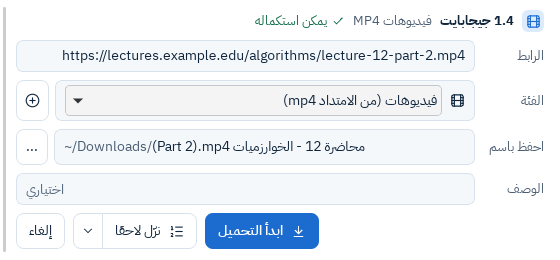
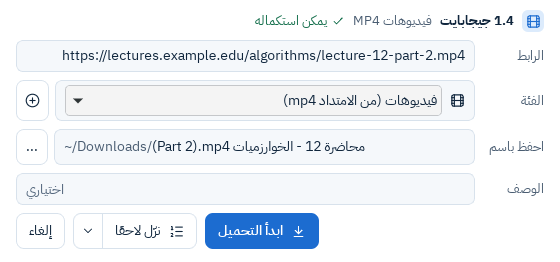
docs(release): Zajil 1.0.0 again, after the second draft was tried (#293)

diff --git a/docs/releases/v1.0.0.md b/docs/releases/v1.0.0.md
@@ -41,8 +41,8 @@
   - «حمّل بزاجِل» و«حمّل الفيديو بزاجِل» من قائمة الزر الأيمن، ومفاتيح مع النقر (مطفأة افتراضيًا).
   - **التقاط التحميلات** حسب أنواع كثيرة كما في IDM (ومنها أجزاء RAR من `r00` إلى `r19`)، **و«خذ أيضًا أي ملف أكبر من 5 ميجابايت»**، مفعّل من البداية، أيًّا كان نوعه، حين يعرف المتصفح حجمه. **انتبه:** هذا الخيار يعمل حتى للأنواع التي أزلتها من القائمة. فإن أزلت `pdf` مثلًا ليبقى في المتصفح، فملف PDF أكبر من 5 ميجابايت يذهب إلى زاجِل، إلا إذا أطفأت الخيار أو رفعت حجمه من إعدادات الإضافة. والمواقع المستثناة تبقى في المتصفح دائمًا.
   - في Chrome وEdge لا يظهر التحميل في شريط تحميلات المتصفح وهو يذهب إلى زاجِل.
-  - زر «نزّل الفيديو» **أعلى يمين الفيديو** كما في IDM، ومعه علامة زاجِل، **وبلغة زاجِل** لا لغة المتصفح (ولغة المتصفح فقط إن لم يصل المتصفح إلى زاجِل)، ولا يظهر قبل أن تصل نصوصه. وبعد الضغط يبقى ويقول إنه يعمل حتى يرد زاجِل، ويقول السبب إن لم يأخذ زاجِل الفيديو. وفي يوتيوب يظهر في صفحات الفيديو وShorts والبث والمشغّل المضمَّن فقط.
-  - وإذن «اسمح لزاجِل بالمواقع» اختياري يُطلب مرة واحدة، لكوكيز الموقع (في الذاكرة فقط) وزر الفيديو. وفي لينكس تعمل مع الـ `.deb` والـ AppImage.
+  - زر «نزّل الفيديو» **أعلى يمين الفيديو** كما في IDM، ومعه علامة زاجِل، **وبلغة زاجِل** لا لغة المتصفح (ولغة المتصفح فقط إن لم يصل المتصفح إلى زاجِل)، ولا يظهر قبل أن تصل نصوصه. وبعد الضغط يبقى ويقول إنه يعمل حتى يرد زاجِل، ويقول السبب إن لم يأخذ زاجِل الفيديو. وفي يوتيوب يظهر في صفحات الفيديو وShorts والبث والمشغّل المضمَّن فقط. وفي صفحة قائمة تشغيل زر «نزّل قائمة التشغيل بزاجِل» تحت عنوانها، وعلى فيديو من قائمة يعرض الزر «هذا الفيديو» و«قائمة التشغيل كلها».
+  - وإذن «اسمح لزاجِل بالمواقع» اختياري يُطلب مرة واحدة، لكوكيز الموقع (في الذاكرة فقط، إلا ملفًا مؤقتًا في مجلد بيانات زاجِل يقرؤه yt-dlp، ويُحذف حين ينتهي) وزر الفيديو. وفي لينكس تعمل مع الـ `.deb` والـ AppImage.
 - **الأمان:** البرامج والمثبّتات والسكربتات وملفات Office ذات الماكرو القادمة من المتصفح تنتظر موافقتك قبل تحميلها، وكل ملف يُحمَّل يحمل علامة النظام «من الإنترنت».
 - **وغير ذلك:** مراقبة الحافظة (مطفأة افتراضيًا)، وأيقونة في شريط النظام تقول ما يعمل وسرعته، وإشعارات وأصوات، والتشغيل مع بدء النظام.
 - **سطر الأوامر** (`zajil`، بالإنجليزية): `get` و`resume` و`queue` و`category` و`video` و`grab` و`batch`. ويُثبَّت بجانب البرنامج.
@@ -129,7 +129,7 @@
 
 الـ CI يبني كل مثبّت ويجرّبه على نظامه: التثبيت، ووجود `zajil-host` و`zajil` و`zajil-jsbox` بجانب البرنامج، وتشغيل `zajil --version`، وتشغيل `zajil-jsbox` المثبّت عبر QuickJS-NG المثبّت (به يحل yt-dlp تحديات يوتيوب)، والإزالة. ويثبّت ملف zip الخاص بـ yt-dlp بكود زاجِل نفسه ويشغّله على ماك وويندوز. ويشغّل البرنامج نفسه ونوافذه ويصوّرها على الأنظمة الثلاثة، ويختبر المحرك والإضافة والفيديو على سيرفرات محلية. أما يدويًا، على أجهزة حقيقية:
 
-- **جُرِّبت المسودة الأولى من 1.0 يدويًا على ماك وويندوز،** وظهرت فيها مشكلات في الفيديو والإضافة والنوافذ، وأُصلحت (انظر «ما تغيّر بعد تجربة المسودة الأولى»). **أما هذه الإصلاحات فلم تُجرَّب يدويًا بعد،** ولا لينكس. وسيناريو التجربة على ماك ([MANUAL-TEST-0.2-MAC](https://github.com/motalim-ai/zajil-download-manager/blob/v1.0.0/docs/MANUAL-TEST-0.2-MAC.md)) لم تُسجَّل نتيجته بعد.
+- **جُرِّبت مسودتان من 1.0 يدويًا،** الأولى على ماك وويندوز، وظهرت فيهما مشكلات في الفيديو والإضافة والنوافذ، وأُصلحت (انظر «ما تغيّر بعد تجربة المسودات»). **أما هذه الإصلاحات فلم تُجرَّب يدويًا بعد،** ومنها زر قائمة التشغيل والقراءة المسبقة للفيديو، ولا لينكس. وسيناريو التجربة على ماك ([MANUAL-TEST-0.2-MAC](https://github.com/motalim-ai/zajil-download-manager/blob/v1.0.0/docs/MANUAL-TEST-0.2-MAC.md)) لم تُسجَّل نتيجته بعد.
 - **الإضافة مع المتصفحات الحقيقية** (Chrome وEdge وFirefox): بعض الاختبارات اليدوية ما زالت قائمة ([#85](https://github.com/motalim-ai/zajil-download-manager/issues/85)).
 - **إطفاء الجهاز وإسباته بعد طابور:** مختبر بمحاكاة فقط ([#34](https://github.com/motalim-ai/zajil-download-manager/issues/34)).
 - **الفيديو من الإنترنت:** اختبارات الـ CI تشغّل yt-dlp وffmpeg الحقيقيين على ملفات تصنعها هي على سيرفر محلي (MP4 وHLS وDASH وصوت فقط وDRM)، ولا تصل إلى الإنترنت. فتنزيل الأدوات من GitHub، وتحميل فيديو من موقع حقيقي (ومنه يوتيوب)، لم يُجرَّبا يدويًا بعد.
@@ -137,9 +137,9 @@
 - **أقراص وشبكات حقيقية:** فلاشات FAT32 وexFAT (الـ CI يختبر صور أقراص)، ومجلدات الشبكة (SMB)، وانقطاع الكهرباء أثناء التحميل.
 - القائمة كاملة وخطواتها في [MANUAL-TESTS](https://github.com/motalim-ai/zajil-download-manager/blob/v1.0.0/docs/MANUAL-TESTS.md). وإن جرّبت شيئًا منها، أخبرنا بالنتيجة في [Issues](https://github.com/motalim-ai/zajil-download-manager/issues).
 
-## ما تغيّر بعد تجربة المسودة الأولى
+## ما تغيّر بعد تجربة المسودات
 
-بُنيت لـ 1.0 مسودة أولى لم تُنشر، وجُرِّبت يدويًا على ماك وويندوز. وهذا ما أُصلح بعدها، قبل هذا الإصدار:
+بُنيت لـ 1.0 مسودتان لم تُنشرا، وجُرِّبتا يدويًا (الأولى على ماك وويندوز). وهذا ما أُصلح بعدهما، قبل هذا الإصدار:
 
 - **الفيديو:**
   - في ويندوز كانت نافذة طرفية تظهر مع كل فيديو ([#251](https://github.com/motalim-ai/zajil-download-manager/pull/251)).
@@ -148,14 +148,18 @@
   - `zajil-jsbox` لم يكن داخل المثبّتات، فكان يوتيوب يفشل لمن سجّل دخوله إلى يوتيوب وليس عنده Deno أو Node ([#252](https://github.com/motalim-ai/zajil-download-manager/pull/252)).
   - صفحة لا تعطي أي جودة مع كوكيزها يُسأل عنها بلاها ([#254](https://github.com/motalim-ai/zajil-download-manager/pull/254))، ورابط الفيديو نفسه يُطلب حين لا يقرأ yt-dlp صفحته، وفيديو النافذة الخاصة لا يُكتب أبدًا ([#268](https://github.com/motalim-ai/zajil-download-manager/pull/268)).
   - رسائل الخطأ بلغتك ([#260](https://github.com/motalim-ai/zajil-download-manager/pull/260))، وللملف امتداد واحد ([#262](https://github.com/motalim-ai/zajil-download-manager/pull/262))، ويُحسب تقدم الدمج كاملًا والافتراضي MP4 ([#267](https://github.com/motalim-ai/zajil-download-manager/pull/267)).
+  - تظهر جودات الفيديو أسرع: حين يظهر زر الفيديو فوق فيديو، يقرأ زاجِل صفحته مقدمًا في الخلفية ([#289](https://github.com/motalim-ai/zajil-download-manager/pull/289)، [#291](https://github.com/motalim-ai/zajil-download-manager/pull/291))، دون أن يشغّل المتصفحُ زاجِل لذلك، ومرة لكل صفحة كل 10 دقائق، ويحفظ ما وجده في الذاكرة فقط. فتصل صفحة الفيديو ورابطه وكوكيز الصفحة إلى زاجِل حين يظهر الزر لا حين تضغطه فقط (بإذن «اسمح لزاجِل بالمواقع»)، ولا شيء من نافذة خاصة. ونصوص الخصوصية في الإضافة تقول ذلك ([#294](https://github.com/motalim-ai/zajil-download-manager/pull/294)).
   - فيديوهات قائمة التشغيل المختارة تدخل القائمة فورًا وتُحمَّل بالدور ([#266](https://github.com/motalim-ai/zajil-download-manager/pull/266))، و«جودة الفيديو» تبقى في المقدمة ويمكن إلغاؤها ([#277](https://github.com/motalim-ai/zajil-download-manager/pull/277)).
 - **الإضافة:**
   - التحميل لا يظهر في شريط Chrome وEdge ([#253](https://github.com/motalim-ai/zajil-download-manager/pull/253)).
   - أنواع أكثر، وخيار «أكبر من 5 ميجابايت» ([#256](https://github.com/motalim-ai/zajil-download-manager/pull/256))، وبلا `ts` لأنه امتداد ملفات TypeScript أيضًا ([#276](https://github.com/motalim-ai/zajil-download-manager/pull/276)).
   - زر الفيديو كما في IDM ([#261](https://github.com/motalim-ai/zajil-download-manager/pull/261))، ولا يظهر قبل أن تصل نصوصه بلغة زاجِل ([#280](https://github.com/motalim-ai/zajil-download-manager/pull/280)).
+  - بعد تحديث الإضافة أو إعادة تحميلها، لا يبقى زر قديم في التبويبات المفتوحة، ولا خطأ «Extension context invalidated» ([#288](https://github.com/motalim-ai/zajil-download-manager/pull/288)).
+  - قوائم تشغيل يوتيوب: زر «نزّل قائمة التشغيل بزاجِل» تحت عنوان القائمة، وعلى فيديو من قائمة يعرض زر الفيديو «هذا الفيديو» و«قائمة التشغيل كلها» ([#290](https://github.com/motalim-ai/zajil-download-manager/pull/290)).
   - حين لا يصل المتصفح إلى زاجِل، يقول زر الفيديو وإشعار «حمّل الفيديو بزاجِل» السبب بلغة زاجِل، بلا مسار من الجهاز ([#280](https://github.com/motalim-ai/zajil-download-manager/pull/280)).
 - **النوافذ:**
   - التحميل القادم من المتصفح يفتح «معلومات ملف التحميل» ([#255](https://github.com/motalim-ai/zajil-download-manager/pull/255))، وهي أصغر كما في IDM ([#257](https://github.com/motalim-ai/zajil-download-manager/pull/257)).
+  - «معلومات ملف التحميل» و«إضافة رابط» بطول ما فيهما، عند فتحهما ومع كل تغيير بعده، فلا يُقص شيء ولا يظهر شريط تمرير ([#287](https://github.com/motalim-ai/zajil-download-manager/pull/287)).
   - «غير مكتملة» و«مكتملة» و«في الانتظار» في الشجرة ([#273](https://github.com/motalim-ai/zajil-download-manager/pull/273)).
   - نافذة التقدم تحتفظ بارتفاعها ([#270](https://github.com/motalim-ai/zajil-download-manager/pull/270))، وحد السرعة يُطبَّق فور تغييره ([#271](https://github.com/motalim-ai/zajil-download-manager/pull/271)).
 
@@ -211,8 +215,8 @@ Real screenshots from CI, and the video button's from a real Chrome running the 
   - «Download with Zajil» and «Download video with Zajil» in the right-click menu, and keys with a click (off by default).
   - **Download capture** by many types, as in IDM (split RAR parts `r00` to `r19` among them), **and «Also take any file larger than 5 MB»**, on from the start, whatever its type, when the browser knows its size. **Mind:** this option works even for the types you removed from the list. If you removed `pdf`, say, to keep PDFs in the browser, a PDF larger than 5 MB still goes to Zajil, unless you turn the option off or raise its size in the extension's settings. Excluded sites always stay in the browser.
   - In Chrome and Edge a download going to Zajil does not show in the browser's download bar.
-  - The «Download video» button sits **at the video's top right**, as in IDM, with Zajil's mark, **in Zajil's language** rather than the browser's (the browser's only when the browser cannot reach Zajil), and it shows only once its texts have come. Pressed, it stays and says it is working until Zajil answers, and says why if Zajil did not take the video. On YouTube it shows on video pages, Shorts, live streams and embedded players only.
-  - «Allow Zajil on sites» is an optional permission asked once, for the site's cookies (kept in memory only) and the video button. On Linux it works with both the `.deb` and the AppImage.
+  - The «Download video» button sits **at the video's top right**, as in IDM, with Zajil's mark, **in Zajil's language** rather than the browser's (the browser's only when the browser cannot reach Zajil), and it shows only once its texts have come. Pressed, it stays and says it is working until Zajil answers, and says why if Zajil did not take the video. On YouTube it shows on video pages, Shorts, live streams and embedded players only. A playlist's page gets «Download the playlist with Zajil» under its title, and on a video played from a playlist the button offers «This video» and «The whole playlist».
+  - «Allow Zajil on sites» is an optional permission asked once, for the site's cookies (kept in memory only, but for a temporary file in Zajil's data folder that yt-dlp reads, deleted when it ends) and the video button. On Linux it works with both the `.deb` and the AppImage.
 - **Safety:** programs, installers, scripts and Office files with macros that come from the browser wait for your OK before they download, and every downloaded file carries the system's "from the internet" mark.
 - **Besides:** clipboard monitoring (off by default), a tray icon that tells what runs and how fast, notifications and sounds, start with the system.
 - **Command line** (`zajil`): `get`, `resume`, `queue`, `category`, `video`, `grab` and `batch`. It is installed next to the program.
@@ -299,7 +303,7 @@ Each line must end with `OK` (on Windows the command must print `True`). If not,
 
 CI builds every installer and tries it on its own system: it installs, `zajil-host`, `zajil` and `zajil-jsbox` are next to the program, `zajil --version` runs, the installed `zajil-jsbox` runs through the pinned QuickJS-NG (yt-dlp solves YouTube's challenges with it), and it uninstalls. On macOS and Windows it also installs yt-dlp's zip through Zajil's own code and runs it. It also starts the app with its windows and screenshots them on all three systems, and tests the engine, the extension and video against local servers. By hand, on real machines:
 
-- **The first draft of 1.0 was tried by hand on macOS and Windows,** and it showed problems in video, the extension and the windows, which were fixed (see «What changed after the first draft was tried»). **Those fixes have not been tried by hand yet,** nor has Linux. The macOS test scenario ([MANUAL-TEST-0.2-MAC](https://github.com/motalim-ai/zajil-download-manager/blob/v1.0.0/docs/MANUAL-TEST-0.2-MAC.md)) has no recorded result yet.
+- **Two drafts of 1.0 were tried by hand,** the first on macOS and Windows, and they showed problems in video, the extension and the windows, which were fixed (see «What changed after the drafts were tried»). **Those fixes have not been tried by hand yet,** among them the playlist button and reading a video ahead, nor has Linux. The macOS test scenario ([MANUAL-TEST-0.2-MAC](https://github.com/motalim-ai/zajil-download-manager/blob/v1.0.0/docs/MANUAL-TEST-0.2-MAC.md)) has no recorded result yet.
 - **The extension with real browsers** (Chrome, Edge, Firefox): some manual checks are still open ([#85](https://github.com/motalim-ai/zajil-download-manager/issues/85)).
 - **Shutting down or sleeping after a queue:** tested with a simulation only ([#34](https://github.com/motalim-ai/zajil-download-manager/issues/34)).
 - **Video from the internet:** CI runs the real yt-dlp and ffmpeg on files it makes itself on a local server (MP4, HLS, DASH, audio only and DRM), with no internet. So downloading the tools from GitHub, and downloading a video from a real site (YouTube among them), have not been tried by hand yet.
@@ -307,9 +311,9 @@ CI builds every installer and tries it on its own system: it installs, `zajil-ho
 - **Real disks and networks:** FAT32 and exFAT flash drives (CI tests disk images), network folders (SMB), and a power cut during a download.
 - The full list, with its steps, is in [MANUAL-TESTS](https://github.com/motalim-ai/zajil-download-manager/blob/v1.0.0/docs/MANUAL-TESTS.md). If you try any of it, please tell us how it went in [Issues](https://github.com/motalim-ai/zajil-download-manager/issues).
 
-## What changed after the first draft was tried
+## What changed after the drafts were tried
 
-A first draft of 1.0 was built, never published, and tried by hand on macOS and Windows. This is what was fixed after it, before this release:
+Two drafts of 1.0 were built, never published, and tried by hand (the first on macOS and Windows). This is what was fixed after them, before this release:
 
 - **Video:**
   - On Windows a console window opened with every video ([#251](https://github.com/motalim-ai/zajil-download-manager/pull/251)).
@@ -318,14 +322,18 @@ A first draft of 1.0 was built, never published, and tried by hand on macOS and 
   - `zajil-jsbox` was not in the installers, so YouTube failed for anyone signed in to YouTube without Deno or Node ([#252](https://github.com/motalim-ai/zajil-download-manager/pull/252)).
   - A page with no format for its cookies is asked again without them ([#254](https://github.com/motalim-ai/zajil-download-manager/pull/254)); the video's own link is asked when yt-dlp cannot read its page, and a private window's video is never written down ([#268](https://github.com/motalim-ai/zajil-download-manager/pull/268)).
   - Errors are in your language ([#260](https://github.com/motalim-ai/zajil-download-manager/pull/260)), a file gets one extension ([#262](https://github.com/motalim-ai/zajil-download-manager/pull/262)), a merge's progress adds up and the default is MP4 ([#267](https://github.com/motalim-ai/zajil-download-manager/pull/267)).
+  - Video qualities come sooner: when the video button shows over a video, Zajil reads its page ahead in the background ([#289](https://github.com/motalim-ai/zajil-download-manager/pull/289), [#291](https://github.com/motalim-ai/zajil-download-manager/pull/291)). The browser never starts Zajil for it, a page is read once in ten minutes, and what was found stays in memory only. So the video's page, its link and the page's cookies reach Zajil when the button shows, not only when you press it (with «Allow Zajil on sites»), and nothing from a private window. The extension's privacy texts say so ([#294](https://github.com/motalim-ai/zajil-download-manager/pull/294)).
   - A playlist's chosen videos join the list at once and download in turn ([#266](https://github.com/motalim-ai/zajil-download-manager/pull/266)), and «Video quality» stays in front and can be cancelled ([#277](https://github.com/motalim-ai/zajil-download-manager/pull/277)).
 - **The extension:**
   - A download no longer shows in Chrome's and Edge's bar ([#253](https://github.com/motalim-ai/zajil-download-manager/pull/253)).
   - More types, and «larger than 5 MB» ([#256](https://github.com/motalim-ai/zajil-download-manager/pull/256)), without `ts`, which TypeScript files have too ([#276](https://github.com/motalim-ai/zajil-download-manager/pull/276)).
   - The video button as in IDM ([#261](https://github.com/motalim-ai/zajil-download-manager/pull/261)), shown only once its texts in Zajil's language have come ([#280](https://github.com/motalim-ai/zajil-download-manager/pull/280)).
+  - After the extension is updated or reloaded, no old button stays in open tabs, and no «Extension context invalidated» error ([#288](https://github.com/motalim-ai/zajil-download-manager/pull/288)).
+  - YouTube playlists: «Download the playlist with Zajil» under a playlist's title, and on a video played from a playlist the video button offers «This video» and «The whole playlist» ([#290](https://github.com/motalim-ai/zajil-download-manager/pull/290)).
   - When the browser cannot reach Zajil, the video button and the «Download video with Zajil» notice say why in Zajil's language, with no path of the machine ([#280](https://github.com/motalim-ai/zajil-download-manager/pull/280)).
 - **Windows of the app:**
   - A download from the browser opens «Download file info» ([#255](https://github.com/motalim-ai/zajil-download-manager/pull/255)), now small as in IDM ([#257](https://github.com/motalim-ai/zajil-download-manager/pull/257)).
+  - «Download file info» and «Add a link» are as tall as what they show, when they open and after every change, so nothing is cut and no scroll bar shows ([#287](https://github.com/motalim-ai/zajil-download-manager/pull/287)).
   - «Unfinished», «Finished» and «Waiting» in the tree ([#273](https://github.com/motalim-ai/zajil-download-manager/pull/273)).
   - The progress window keeps its height ([#270](https://github.com/motalim-ai/zajil-download-manager/pull/270)), and a speed limit applies as soon as it changes ([#271](https://github.com/motalim-ai/zajil-download-manager/pull/271)).
 

diff --git a/CHANGELOG.md b/CHANGELOG.md
@@ -7,9 +7,9 @@ The format follows [Keep a Changelog](https://keepachangelog.com/en/1.1.0/), and
 
 ## [Unreleased]
 
-## [1.0.0] - 2026-10-27
+## [1.0.0] - 2026-10-28
 
-The first published release: 0.2.0 was a test draft that was never published. Signed automatic updates come in 1.1 (owner's decision of 2026-10-26). A first 1.0.0 draft was tried by hand on macOS and Windows and never published; it and its tag were removed (owner's decision of 2026-10-27), and the fixes after it (#251 to #283) are here too. This list is the titles of the pull requests merged after 0.2.0.
+The first published release: 0.2.0 was a test draft that was never published. Signed automatic updates come in 1.1 (owner's decision of 2026-10-26). Two 1.0.0 drafts were tried by hand (the first on macOS and Windows) and never published; they and their tags were removed (owner's decisions of 2026-10-27 and 2026-10-28), and the fixes after them (#251 to #294) are here too. This list is the titles of the pull requests merged after 0.2.0.
 
 Mind: the extension's «Also take any file larger than 5 MB» (on from the start) works even for the types a user removed from the list (#263).
 
@@ -23,6 +23,9 @@ Mind: the extension's «Also take any file larger than 5 MB» (on from the start
 - feat(extension): more types by default, as IDM's, and any file larger than 5 MB goes to Zajil (#256)
 - feat(extension): the video button as IDM's: top right, Zajil's mark and language, working until Zajil answers, and only on YouTube's video pages (#261)
 - feat(video): yt-dlp's official zip on macOS and Windows, unpacked once, checked whole before every run, and started once offline after it is downloaded (#278)
+- feat(video): Zajil reads a video ahead when the extension's button shows over it (#289)
+- feat(extension): download a YouTube playlist from its page, or from a video played from it (#290)
+- feat(extension): the video button has Zajil read its video ahead as soon as it shows (#291)
 
 ### Fixes
 
@@ -59,6 +62,9 @@ Mind: the extension's «Also take any file larger than 5 MB» (on from the start
 - fix(desktop): «Video quality» stays in front, can be cancelled, and waits visibly in the main window (#277)
 - fix: zajil-host's own failures said in Zajil's language with no path, the video button only once Zajil's texts came, and yt-dlp's first run done only once it loaded its handlers (#280)
 - fix(macos): zajil-host starts Zajil through LaunchServices, and the video tools carry no quarantine mark (#283)
+- fix(extension): stop the content scripts once the extension is gone from an open tab (#288)
+- fix(desktop): the add windows are as tall as what they show (#287)
+- fix(extension): the privacy text says what reading a video ahead sends (#294)
 
 ### Documentation
 
